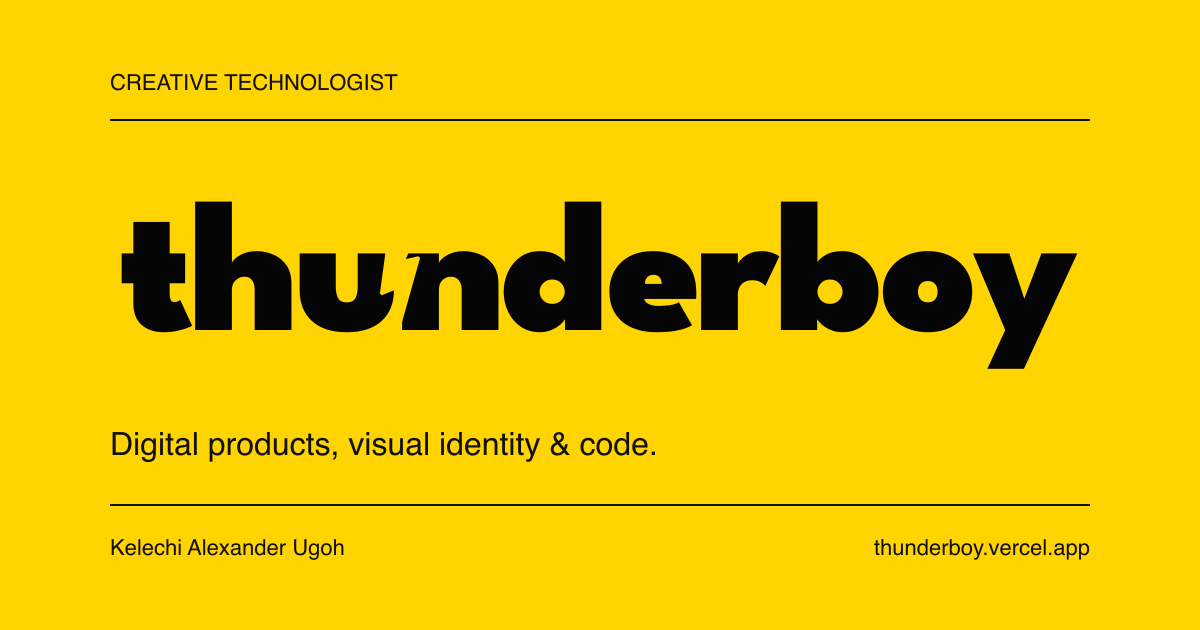
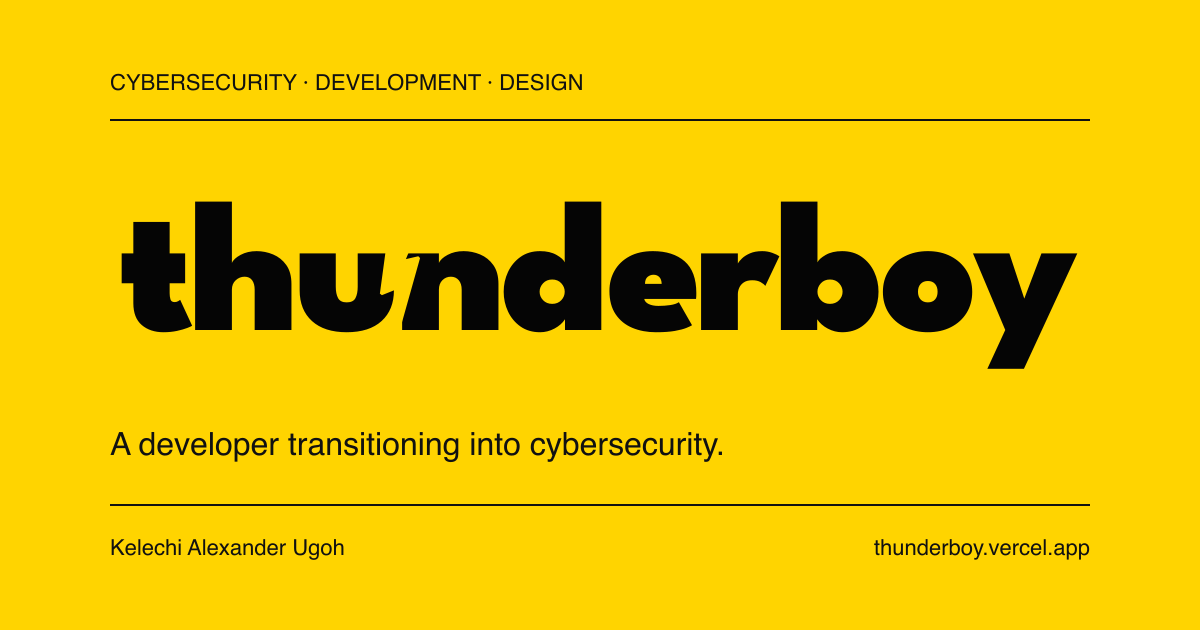
Align Thunderboy transition copy and mobile presentation

Changed region(s): [[0.0925, 0.6635, 0.6167, 0.7238], [0.0925, 0.1206, 0.4933, 0.1508]]

diff --git a/src/app/contact/layout.tsx b/src/app/contact/layout.tsx
@@ -3,16 +3,16 @@ import { SITE } from '@/data/site';
 
 export const metadata: Metadata = {
   title: 'Contact',
-  description: 'Contact cybersecurity analyst focused on AppSec and creative technologist Kelechi Alexander Ugoh about a project, idea, or collaboration.',
+  description: SITE.description,
   alternates: { canonical: `${SITE.url}/contact` },
   openGraph: {
-    title: 'Contact — Thunderboy', description: 'Contact cybersecurity analyst focused on AppSec and creative technologist Kelechi Alexander Ugoh about a project, idea, or collaboration.',
+    title: 'Contact — Thunderboy', description: SITE.description,
     url: `${SITE.url}/contact`, siteName: SITE.name, type: 'website', locale: 'en_NG',
-    images: [{ url: `${SITE.url}/brand/social/thunderboy-share.png`, width: 1200, height: 630, type: 'image/png', alt: 'Thunderboy — Creative Technologist' }],
+    images: [{ url: `${SITE.url}/brand/social/thunderboy-share.png`, width: 1200, height: 630, type: 'image/png', alt: SITE.socialImageAlt }],
   },
   twitter: {
-    card: 'summary_large_image', title: 'Contact — Thunderboy', description: 'Contact cybersecurity analyst focused on AppSec and creative technologist Kelechi Alexander Ugoh about a project, idea, or collaboration.',
-    images: [{ url: `${SITE.url}/brand/social/thunderboy-share.png`, alt: 'Thunderboy — Creative Technologist' }],
+    card: 'summary_large_image', title: 'Contact — Thunderboy', description: SITE.description,
+    images: [{ url: `${SITE.url}/brand/social/thunderboy-share.png`, alt: SITE.socialImageAlt }],
   },
 };
 

diff --git a/src/app/projects/layout.tsx b/src/app/projects/layout.tsx
@@ -3,16 +3,16 @@ import { SITE } from '@/data/site';
 
 export const metadata: Metadata = {
   title: 'Work',
-  description: 'Products, experiments, and personal projects by cybersecurity analyst focused on AppSec and creative technologist Kelechi Alexander Ugoh.',
+  description: SITE.description,
   alternates: { canonical: `${SITE.url}/projects` },
   openGraph: {
-    title: 'Work — Thunderboy', description: 'Products, experiments, and personal projects by cybersecurity analyst focused on AppSec and creative technologist Kelechi Alexander Ugoh.',
+    title: 'Work — Thunderboy', description: SITE.description,
     url: `${SITE.url}/projects`, siteName: SITE.name, type: 'website', locale: 'en_NG',
-    images: [{ url: `${SITE.url}/brand/social/thunderboy-share.png`, width: 1200, height: 630, type: 'image/png', alt: 'Thunderboy — Creative Technologist' }],
+    images: [{ url: `${SITE.url}/brand/social/thunderboy-share.png`, width: 1200, height: 630, type: 'image/png', alt: SITE.socialImageAlt }],
   },
   twitter: {
-    card: 'summary_large_image', title: 'Work — Thunderboy', description: 'Products, experiments, and personal projects by cybersecurity analyst focused on AppSec and creative technologist Kelechi Alexander Ugoh.',
-    images: [{ url: `${SITE.url}/brand/social/thunderboy-share.png`, alt: 'Thunderboy — Creative Technologist' }],
+    card: 'summary_large_image', title: 'Work — Thunderboy', description: SITE.description,
+    images: [{ url: `${SITE.url}/brand/social/thunderboy-share.png`, alt: SITE.socialImageAlt }],
   },
 };
 

diff --git a/src/app/about/layout.tsx b/src/app/about/layout.tsx
@@ -3,16 +3,16 @@ import { SITE } from '@/data/site';
 
 export const metadata: Metadata = {
   title: 'About',
-  description: 'Meet Kelechi Alexander Ugoh, the cybersecurity analyst focused on AppSec and creative technologist behind Thunderboy.',
+  description: SITE.description,
   alternates: { canonical: `${SITE.url}/about` },
   openGraph: {
-    title: 'About — Thunderboy', description: 'Meet Kelechi Alexander Ugoh, the cybersecurity analyst focused on AppSec and creative technologist behind Thunderboy.',
+    title: 'About — Thunderboy', description: SITE.description,
     url: `${SITE.url}/about`, siteName: SITE.name, type: 'website', locale: 'en_NG',
-    images: [{ url: `${SITE.url}/brand/social/thunderboy-share.png`, width: 1200, height: 630, type: 'image/png', alt: 'Thunderboy — Creative Technologist' }],
+    images: [{ url: `${SITE.url}/brand/social/thunderboy-share.png`, width: 1200, height: 630, type: 'image/png', alt: SITE.socialImageAlt }],
   },
   twitter: {
-    card: 'summary_large_image', title: 'About — Thunderboy', description: 'Meet Kelechi Alexander Ugoh, the cybersecurity analyst focused on AppSec and creative technologist behind Thunderboy.',
-    images: [{ url: `${SITE.url}/brand/social/thunderboy-share.png`, alt: 'Thunderboy — Creative Technologist' }],
+    card: 'summary_large_image', title: 'About — Thunderboy', description: SITE.description,
+    images: [{ url: `${SITE.url}/brand/social/thunderboy-share.png`, alt: SITE.socialImageAlt }],
   },
 };
 

diff --git a/src/components/layout/Hero.tsx b/src/components/layout/Hero.tsx
@@ -6,9 +6,9 @@ export default function Hero() {
   return (
     <section className="px-4 pb-8 pt-28 text-center sm:px-6 sm:pt-36">
       <div className="cosmic-hero surface-panel mx-auto w-full max-w-5xl rounded-[2rem] px-5 py-8 sm:px-12 sm:py-14">
-        <p className="meta-label text-voltage">Creative technologist</p>
+        <p className="meta-label text-voltage">Cybersecurity · Development · Design</p>
         <h1 className="display-heading mx-auto mt-5 max-w-3xl text-balance text-[clamp(2rem,9vw,2.65rem)] sm:text-[clamp(2.6rem,7vw,5.5rem)]">Kelechi Alexander Ugoh.</h1>
-        <p className="mx-auto mt-5 max-w-xl text-base leading-7 text-white/75 sm:text-lg sm:leading-8">Design and code for digital products, visual identities, and creative ideas.</p>
+        <p className="mx-auto mt-5 max-w-xl text-base leading-7 text-white/75 sm:text-lg sm:leading-8">A developer transitioning into cybersecurity. I build digital products and visual identities, bringing that experience to my security learning.</p>
         <div className="mt-7 flex flex-col justify-center gap-3 sm:flex-row">
           <Link href="/projects" className="button-primary">See my work <ArrowDownRight aria-hidden="true" size={16} /></Link>
           <Link href="/about" className="button-secondary">More about me <ArrowUpRight aria-hidden="true" size={16} /></Link>

diff --git a/src/app/about/page.tsx b/src/app/about/page.tsx
@@ -28,13 +28,13 @@ export default function AboutPage() {
             <h1 className="display-heading mt-5 text-balance text-[clamp(2rem,8vw,2.75rem)] sm:text-[clamp(2.5rem,6vw,4.75rem)]">
               Kelechi Alexander Ugoh.
             </h1>
-            <p className="mt-4 text-lg leading-7 text-voltage">Cybersecurity analyst focused on AppSec. Creative technologist.</p>
+            <p className="mt-4 text-lg leading-7 text-voltage">Developer transitioning into cybersecurity.</p>
             <div className="mt-8 max-w-2xl space-y-5 text-base leading-7 text-white/[0.64] sm:text-lg sm:leading-8">
               <p>
                 I build digital products and work across frontend engineering, visual identity and creative direction.
               </p>
               <p>
-                I use React, Next.js and TypeScript. My cybersecurity focus is AppSec, which I develop through study and practical projects.
+                I use React, Next.js and TypeScript. I&apos;m currently training with 10Alytics and developing my cybersecurity skills through study and practical projects. Application security is a natural bridge from my development work, alongside broader security foundations.
               </p>
             </div>
           </div>

diff --git a/src/app/layout.tsx b/src/app/layout.tsx
@@ -23,7 +23,7 @@ export const metadata: Metadata = {
     "Kelechi Alexander Ugoh",
     "Alex",
     "creative technologist",
-    "cybersecurity analyst",
+    "cybersecurity learning",
     "application security",
     "AppSec",
     "creative direction",
@@ -43,7 +43,7 @@ export const metadata: Metadata = {
         url: `${SITE.url}/brand/social/thunderboy-share.png`,
         width: 1200,
         height: 630,
-        alt: "Thunderboy — Creative Technologist. Digital products, visual identity & code.",
+        alt: SITE.socialImageAlt,
         type: "image/png",
       },
     ],
@@ -54,7 +54,7 @@ export const metadata: Metadata = {
     card: "summary_large_image",
     title: `${SITE.name} — ${SITE.descriptor}`,
     description: SITE.description,
-    images: [{ url: `${SITE.url}/brand/social/thunderboy-share.png`, alt: "Thunderboy — Creative Technologist" }],
+    images: [{ url: `${SITE.url}/brand/social/thunderboy-share.png`, alt: SITE.socialImageAlt }],
   },
 };
 
@@ -66,7 +66,7 @@ const structuredData = {
   url: SITE.url,
   description: SITE.description,
   email: `mailto:${SITE.email}`,
-  jobTitle: SITE.descriptor,
+  jobTitle: "Developer",
   sameAs: [SITE.github, SITE.linkedin],
 };
 

diff --git a/src/components/layout/Navbar.tsx b/src/components/layout/Navbar.tsx
@@ -22,6 +22,13 @@ export default function Navbar() {
   useEffect(() => {
     if (!isOpen) return;
 
+    const desktop = window.matchMedia("(min-width: 768px)");
+    const closeOnDesktop = () => {
+      if (desktop.matches) setIsOpen(false);
+    };
+    desktop.addEventListener("change", closeOnDesktop);
+    closeOnDesktop();
+
     const main = document.querySelector("main");
     const footer = document.querySelector("footer");
     const previousOverflow = document.body.style.overflow;
@@ -62,6 +69,7 @@ export default function Navbar() {
       main?.removeAttribute("inert");
       footer?.removeAttribute("inert");
       window.removeEventListener("keydown", handleKeyDown);
+      desktop.removeEventListener("change", closeOnDesktop);
     };
   }, [isOpen]);
 
@@ -75,7 +83,7 @@ export default function Navbar() {
             width={170}
             height={34}
             priority
-            className="h-auto w-[122px] sm:w-[138px]"
+            className="h-auto w-[128px] sm:w-[138px]"
           />
         </Link>
 

diff --git a/src/lib/get-projects.ts b/src/lib/get-projects.ts
@@ -10,6 +10,19 @@ interface SanityProject {
   thumbnail?: Parameters<typeof urlForImage>[0]; star?: Partial<Project["star"]>;
 }
 const curated = [
+  {
+    title: "TheGriot",
+    oneLiner: "A geographic-history exploration prototype.",
+    description: "Explore history, oral traditions and different narratives on an interactive globe.",
+    techStack: ["Next.js", "React", "TypeScript", "Deck.gl"],
+    liveUrl: "https://thegriot.vercel.app/",
+    githubUrl: "https://github.com/Alexthethunderboy/thegriot",
+    notes: {
+      aim: "Explore how geographic context connects historical accounts and oral traditions.",
+      approach: "An interactive globe presents location-based narratives alongside an experimental ingestion pipeline.",
+      scope: "Prototype only. A tracked migration disables row-level security; authorization and ingestion require further review before a production release."
+    }
+  },
 {
   "title": "Dumami Hair",
   "oneLiner": "An editorial hair-styling website with a four-step booking prototype.",

diff --git a/src/data/site.ts b/src/data/site.ts
@@ -2,9 +2,10 @@ export const SITE = {
   name: "Thunderboy",
   founder: "Kelechi Alexander Ugoh",
   preferredName: "Alex",
-  descriptor: "Cybersecurity Analyst · AppSec · Creative Technologist",
+  descriptor: "Cybersecurity · Development · Design",
   description:
-    "The portfolio of Kelechi Alexander Ugoh, a cybersecurity analyst focused on application security (AppSec), building digital products and visual experiences as Thunderboy.",
+    "Kelechi Alexander Ugoh's portfolio: a developer transitioning into cybersecurity, with practical security learning, digital products and visual design as Thunderboy.",
+  socialImageAlt: "Thunderboy wordmark — Cybersecurity, Development and Design. A developer transitioning into cybersecurity.",
   url: "https://thunderboy.vercel.app",
   email: "alexthegreatdeveloper@gmail.com",
   github: "https://github.com/Alexthethunderboy",

diff --git a/src/lib/project.ts b/src/lib/project.ts
@@ -9,7 +9,7 @@ export function toProjectId(title: string) {
 const PROJECT_SUMMARIES: Record<string, string> = {
   taxable: "A Nigerian tax calculator, SME checker, and private document vault.",
   thunderweather: "A weather dashboard with forecasts, maps, and clear data visualisations.",
-  thegriot: "An interactive globe for exploring history, oral traditions, and contested narratives.",
+  thegriot: "A geographic-history exploration prototype with an interactive globe.",
   cinechive: "A local-first archive for discovering and collecting cinema.",
   drawn: "A culture picker for films, music, and books.",
   "kan powers": "A service enquiry website for property maintenance and facility support.",

diff --git a/src/app/contact/page.tsx b/src/app/contact/page.tsx
@@ -45,7 +45,7 @@ export default function ContactPage() {
               Email is best if you already have a brief, references, or a few links to share.
             </p>
 
-            <div className="mt-10 hidden border-t border-white/10 pt-6 lg:block">
+            <div className="mt-10 border-t border-white/10 pt-6">
               <p className="text-sm text-white/65">Elsewhere</p>
               <div className="mt-4 flex flex-col items-start gap-4">
                 <a href={SITE.github} target="_blank" rel="noopener noreferrer" className="flex min-h-11 items-center gap-3 font-bold text-white/[0.72] hover:text-white">

diff --git a/docs/brand-positioning.md b/docs/brand-positioning.md
@@ -1,7 +1,7 @@
 # Thunderboy positioning
 
-Cybersecurity analyst focused on application security (AppSec), building digital products and visual experiences as Thunderboy. Product development, visual identity, creative direction and code remain part of the brand. This positioning expresses Alex's chosen direction and ongoing study; it does not claim employment, certification, seniority or audited security outcomes.
+Cybersecurity comes first in Alex's current direction: a developer transitioning into security who continues to build digital products and visual identities as Thunderboy. Alex is currently training with 10Alytics. AppSec is a natural bridge from development, alongside broader cybersecurity foundations. This positioning expresses ongoing study and practical work; it does not claim employment, certification, seniority or audited security outcomes.
 
-Preserve the current Thunderboy wordmark, light/dark variants, Carbon/Voltage Yellow palette and typography. Existing visual assets retain their current artwork; social artwork still carrying the older descriptor needs a separate text update and visual review.
+Preserve the current Thunderboy wordmark, light/dark variants, Carbon/Voltage Yellow palette and typography. Social-share artwork uses the existing wordmark geometry with the current cybersecurity, development and design descriptor. Preserve the editable SVG and its matching PNG export; check share-card legibility before publication.
 
 NetCore is educational networking coursework. Its live tests are recorded; reopening the saved file remains unverified. Original coursework summaries may be shared, but the instructor walkthrough, submission archive, raw Packet Tracer file, report and unredacted screenshots are excluded from this positioning update.
